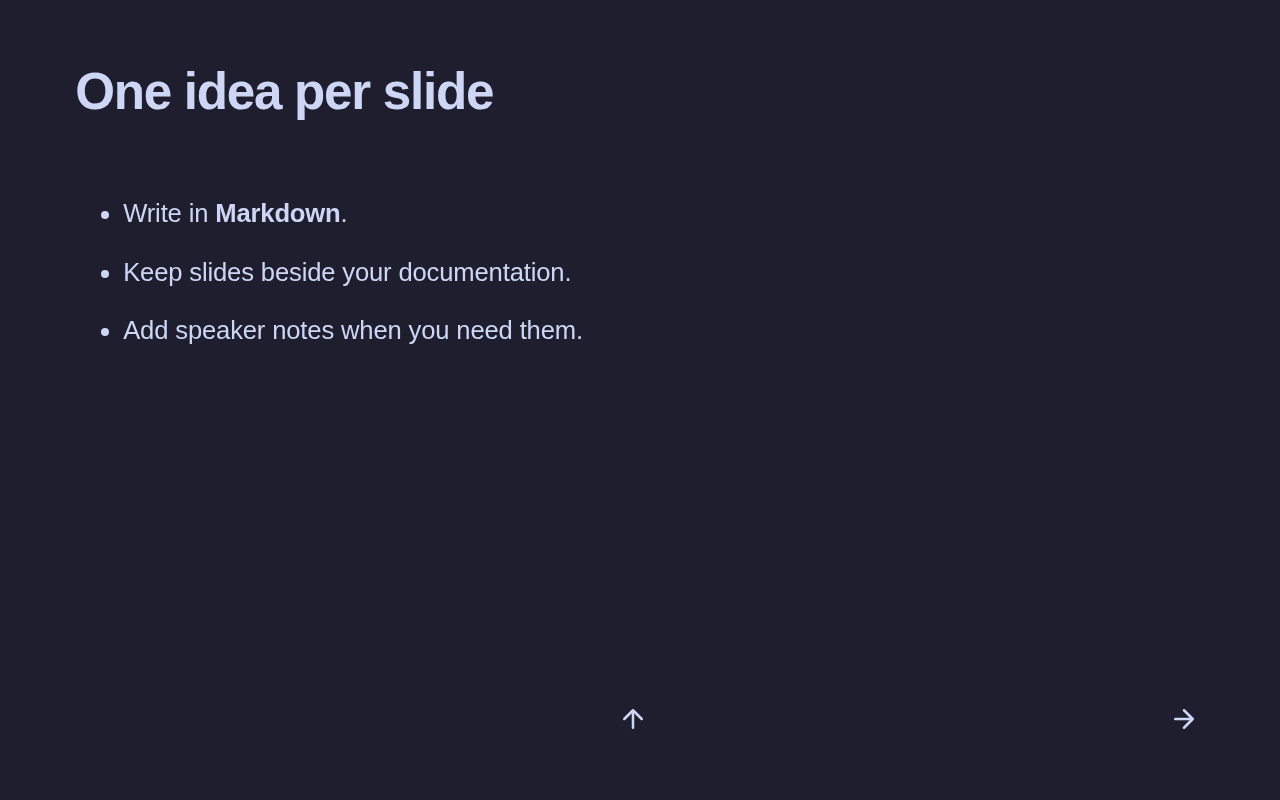
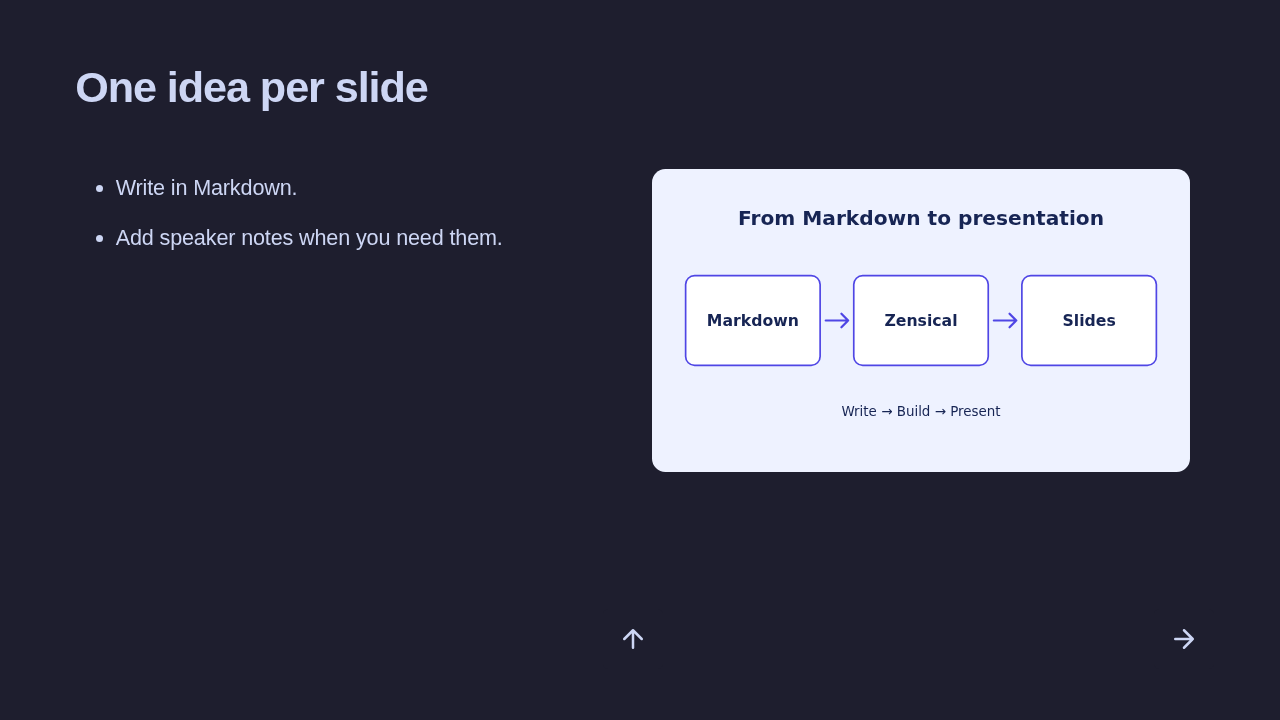
update example slide

diff --git a/docs/index.md b/docs/index.md
@@ -18,8 +18,6 @@ Markdown Slides with Zensical
 
 <div markdown>
 
-### Write Markdown
-
 ```
 ---
 template: slide.html
@@ -28,18 +26,18 @@ template: slide.html
 # One idea per slide
 
 - Write in **Markdown**.
-- Organize slides in a folder that suits your project.
 - Add speaker notes when you need them.
+
+<!-- column-break -->
+
+![A diagram showing the path from Markdown through Zensical to a presentation.](../assets/example-process.svg)
 ```
 
 </div>
 
 <div markdown>
 
-### Present the slide
-
-![Rendered slide titled One idea per slide, with three bullet points and navigation arrows.](assets/slide-example.png#only-light)
-![Rendered slide titled One idea per slide, with three bullet points and navigation arrows.](assets/slide-example-dark.png#only-dark)
+![Rendered dark slide titled One idea per slide, with text, a workflow diagram, and navigation arrows.](assets/slide-example-dark.png)
 
 </div>
 
